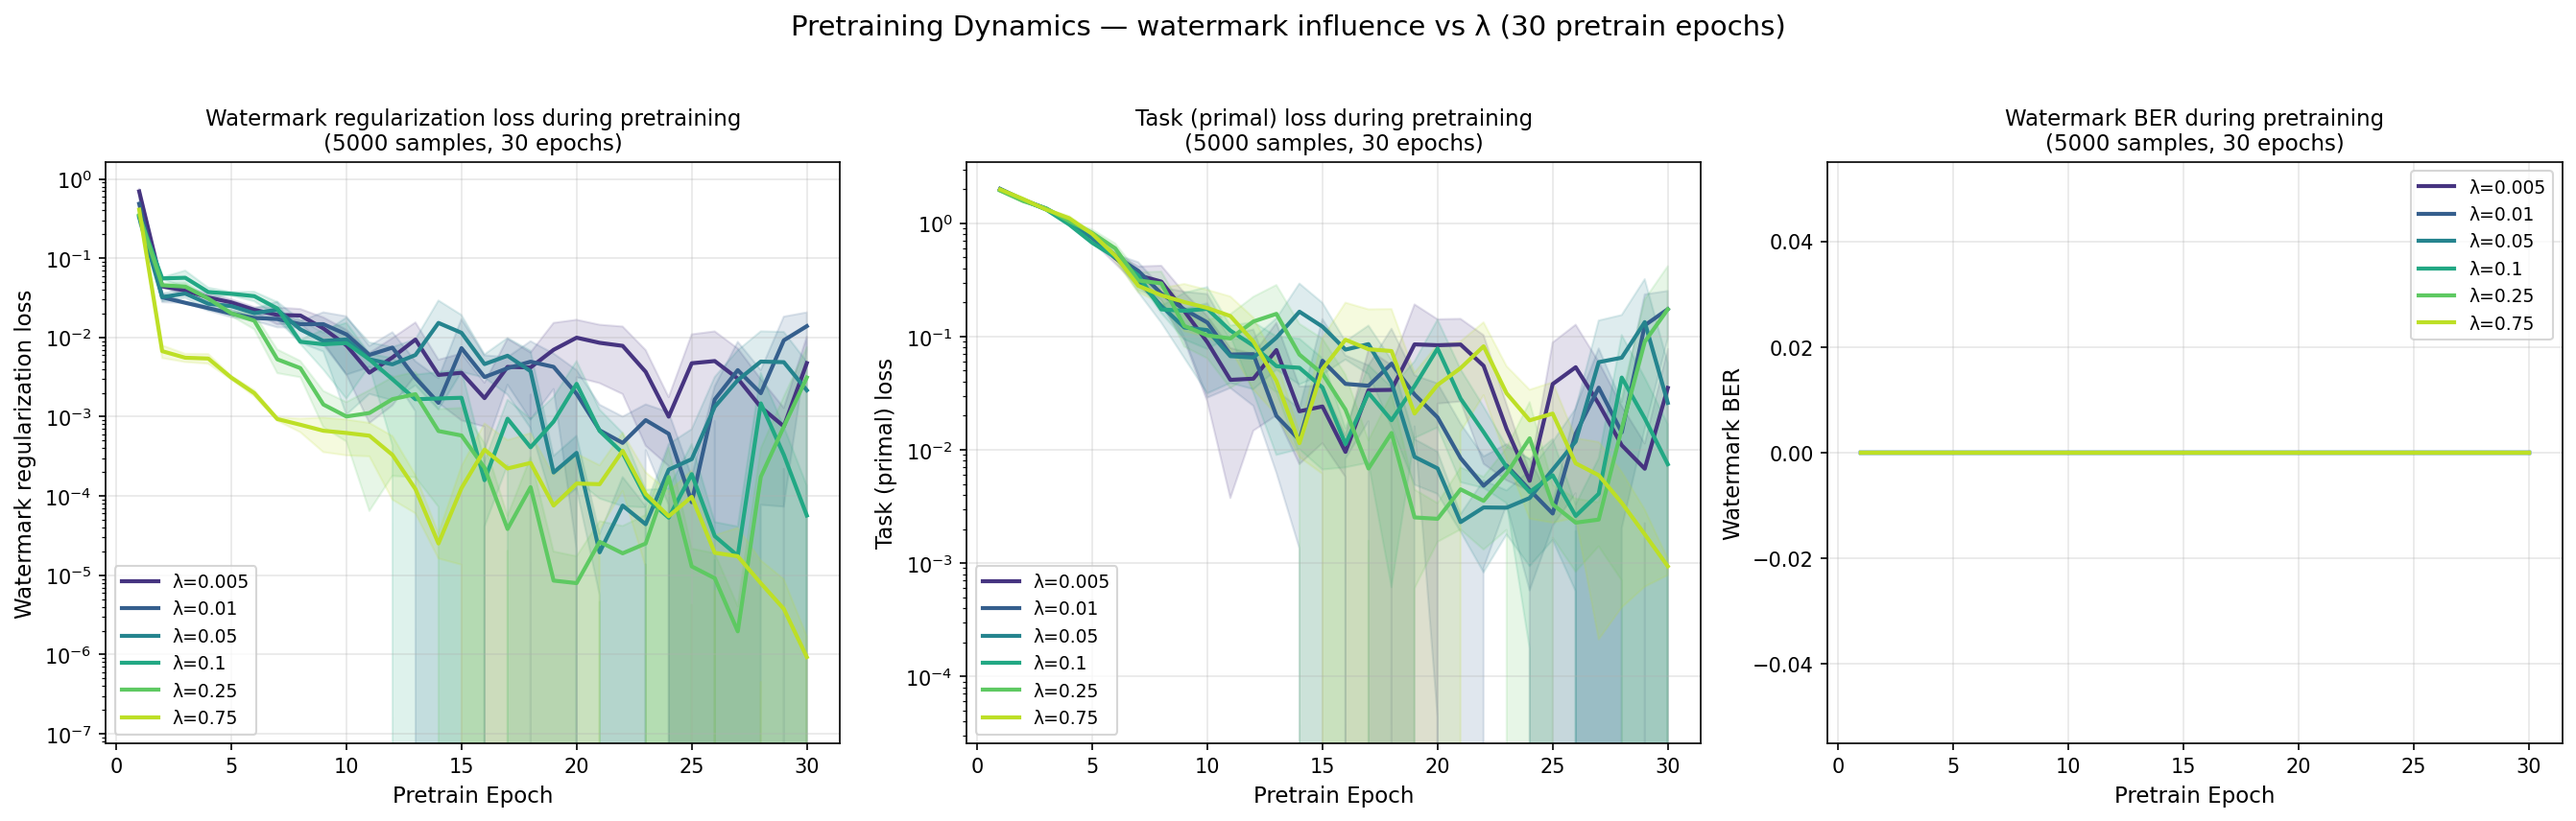
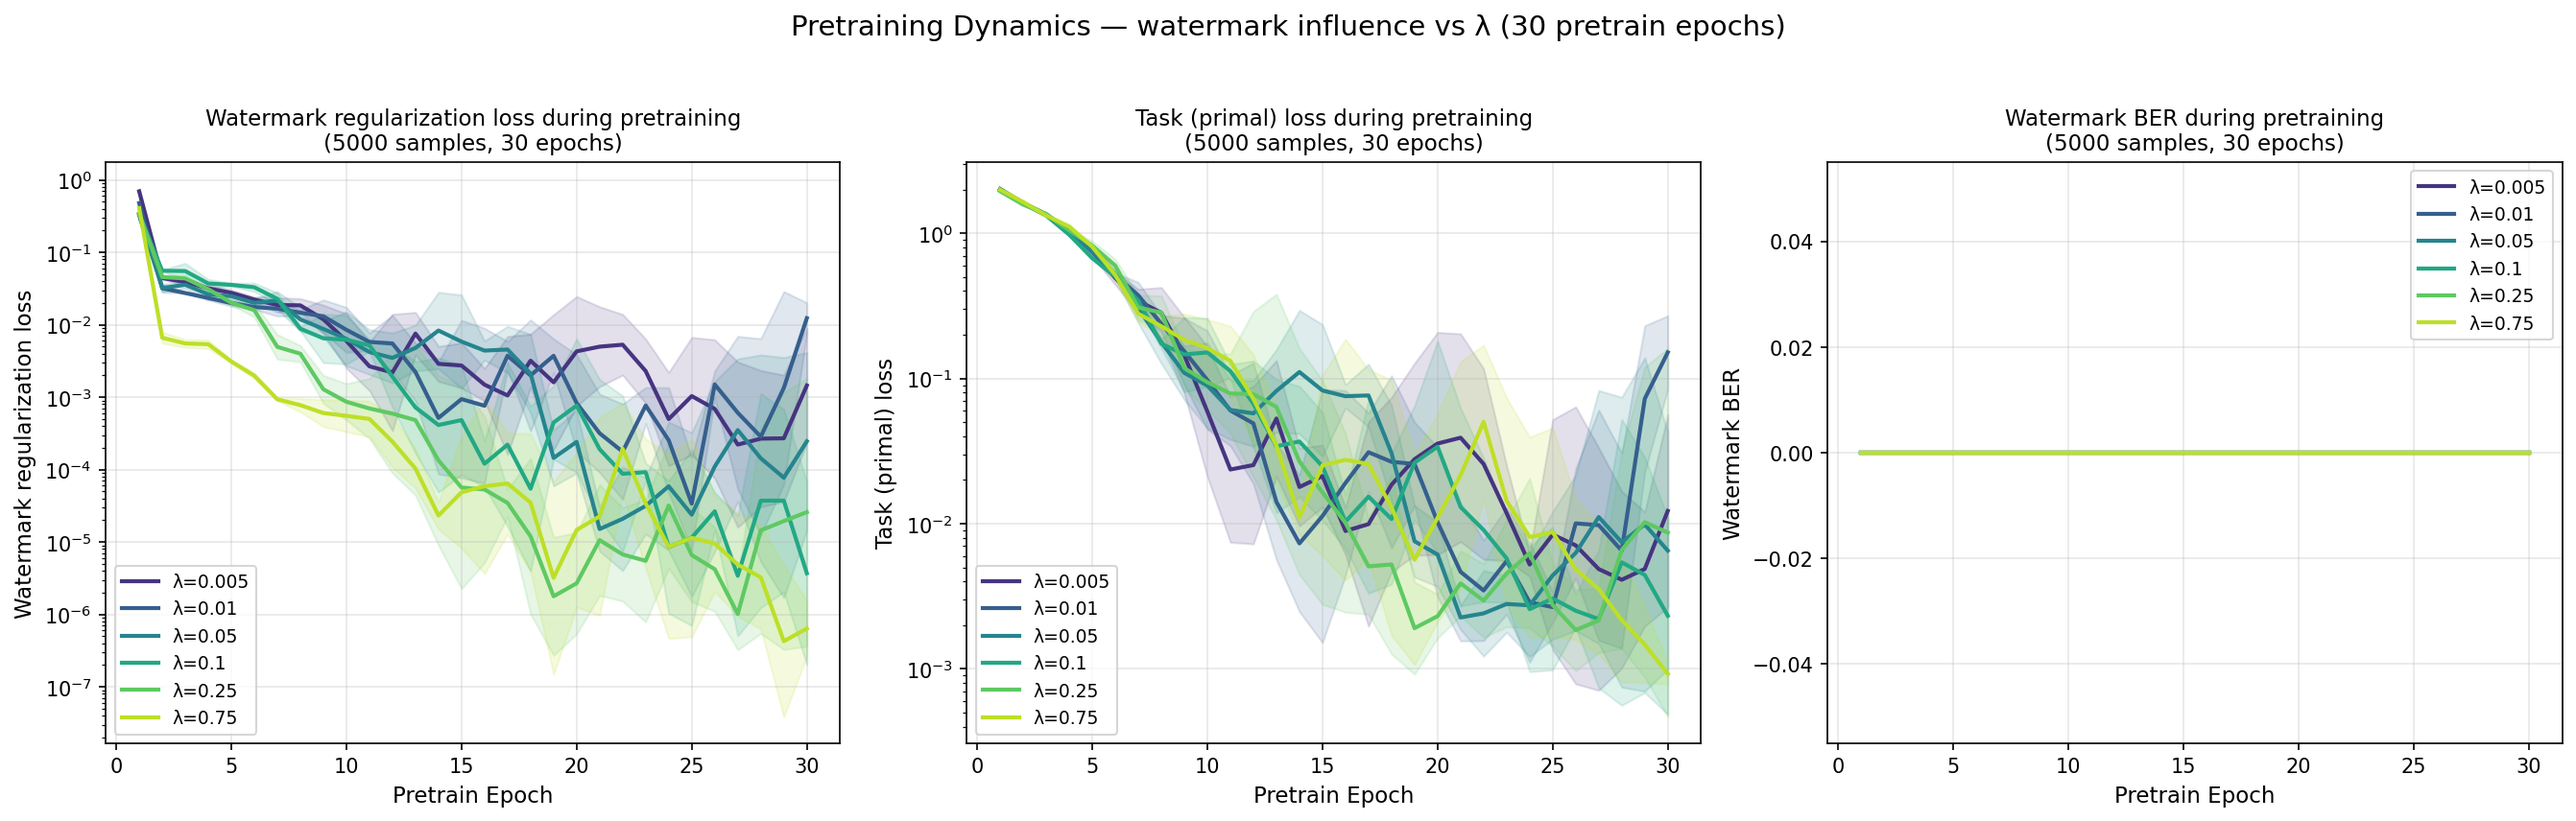
plot_pretrain: geometric mean/std for log-scale loss bands

diff --git a/utility scripts/plot_pretrain.py b/utility scripts/plot_pretrain.py
@@ -113,6 +113,15 @@ def main():
     metrics = [("watermark_loss", "Watermark regularization loss", "C3"),
                ("task_loss", "Task (primal) loss", "C0"),
                ("watermark_ber", "Watermark BER", "C1")]
+    log_metrics = {"watermark_loss", "task_loss"}
+
+    for ax, (mname, label, mcolor) in zip(axes, metrics):
+        ax.set_xlabel("Pretrain Epoch", fontsize=11)
+        ax.set_ylabel(label, fontsize=11)
+        ax.set_title(f"{label} during pretraining\n(5000 samples, {ep} epochs)", fontsize=11)
+        ax.grid(True, alpha=0.3)
+        if mname in log_metrics:
+            ax.set_yscale("log")
 
     for lam, color in zip(active, colors):
         rep_data = [load_pretrain_metrics(r["run_id"]) for r in lam_runs[lam]]
@@ -123,20 +132,22 @@ def main():
 
         for ax, (mname, label, _) in zip(axes, metrics):
             mat = np.array([d[mname] for d in aligned])
-            mean = np.mean(mat, axis=0)
-            std = np.std(mat, axis=0)
-            ax.plot(common, mean, "-", color=color, linewidth=2, label=f"λ={lam}")
-            ax.fill_between(common, mean - std, mean + std, color=color, alpha=0.15)
+            if mname in log_metrics:
+                # Log-scale statistics: geometric mean +/- geometric std, so the
+                # band is symmetric in log space and never dips below zero.
+                logmat = np.log(np.clip(mat, 1e-12, None))
+                center = np.exp(np.mean(logmat, axis=0))
+                lo = np.exp(np.mean(logmat, axis=0) - np.std(logmat, axis=0))
+                hi = np.exp(np.mean(logmat, axis=0) + np.std(logmat, axis=0))
+            else:
+                center = np.mean(mat, axis=0)
+                lo = center - np.std(mat, axis=0)
+                hi = center + np.std(mat, axis=0)
+            ax.plot(common, center, "-", color=color, linewidth=2, label=f"λ={lam}")
+            ax.fill_between(common, lo, hi, color=color, alpha=0.15)
 
-    for ax, (mname, label, mcolor) in zip(axes, metrics):
-        ax.set_xlabel("Pretrain Epoch", fontsize=11)
-        ax.set_ylabel(label, fontsize=11)
-        ax.set_title(f"{label} during pretraining\n(5000 samples, {ep} epochs)", fontsize=11)
-        ax.grid(True, alpha=0.3)
+    for ax in axes:
         ax.legend(fontsize=9)
-
-    axes[0].set_yscale("log")
-    axes[1].set_yscale("log")
 
     fig.suptitle(f"Pretraining Dynamics — watermark influence vs λ ({ep} pretrain epochs)", fontsize=14, y=1.03)
     fig.tight_layout()
@@ -145,17 +156,18 @@ def main():
     plt.close(fig)
     print(f"  Saved: {path}")
 
-    # Print table: final epoch values per λ
+    # Print table: final epoch values per λ (geometric mean for log-scale losses)
     print("\n  === PRETRAIN FINAL EPOCH (mean over reps) ===")
-    print(f"  {'λ':<8} {'N':>3} {'wm_loss':>10} {'task_loss':>10} {'BER':>7}")
-    print(f"  {'-'*8} {'-'*3} {'-'*10} {'-'*10} {'-'*7}")
+    print(f"  {'λ':<8} {'N':>3} {'wm_loss(g)':>11} {'task_loss(g)':>12} {'BER':>7}")
+    print(f"  {'-'*8} {'-'*3} {'-'*11} {'-'*12} {'-'*7}")
     for lam in active:
         rep_data = [load_pretrain_metrics(r["run_id"]) for r in lam_runs[lam]]
         n = len(rep_data)
-        wml = np.mean([d["watermark_loss"][-1] for d in rep_data])
-        tl = np.mean([d["task_loss"][-1] for d in rep_data])
+        gmean = lambda v: float(np.exp(np.mean(np.log(np.clip(v, 1e-12, None)))))
+        wml = gmean([d["watermark_loss"][-1] for d in rep_data])
+        tl = gmean([d["task_loss"][-1] for d in rep_data])
         ber = np.mean([d["watermark_ber"][-1] for d in rep_data])
-        print(f"  {lam:<8} {n:>3} {wml:>10.4f} {tl:>10.4f} {ber:>7.4f}")
+        print(f"  {lam:<8} {n:>3} {wml:>11.5f} {tl:>12.5f} {ber:>7.4f}")
 
 
 if __name__ == "__main__":
